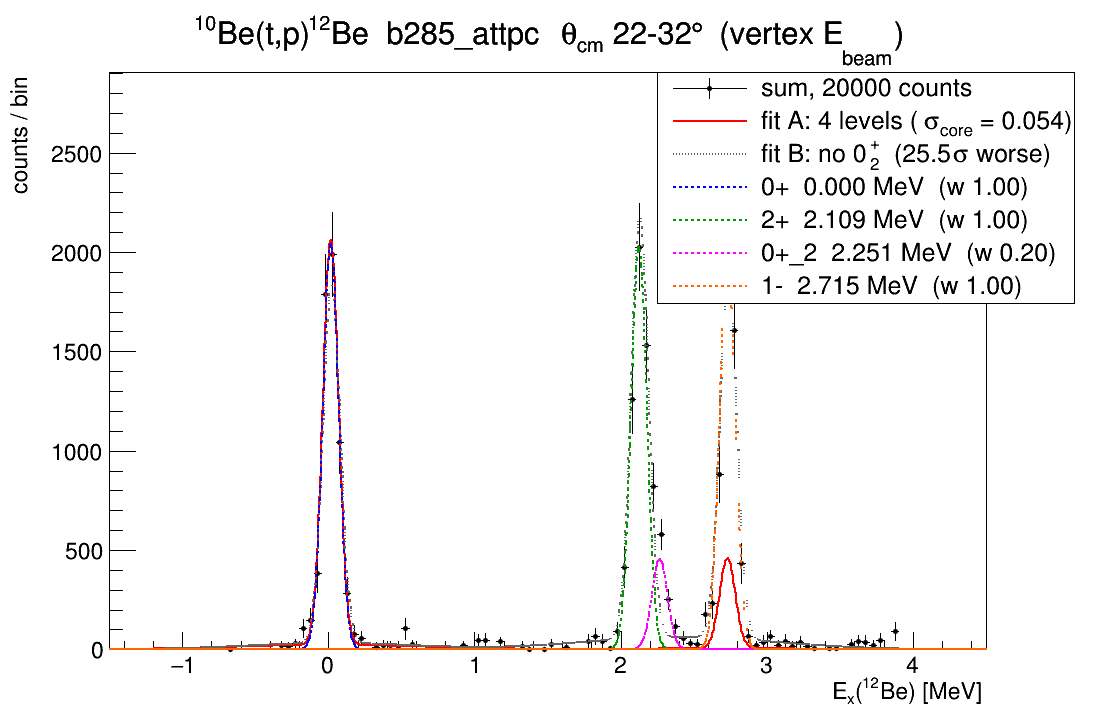
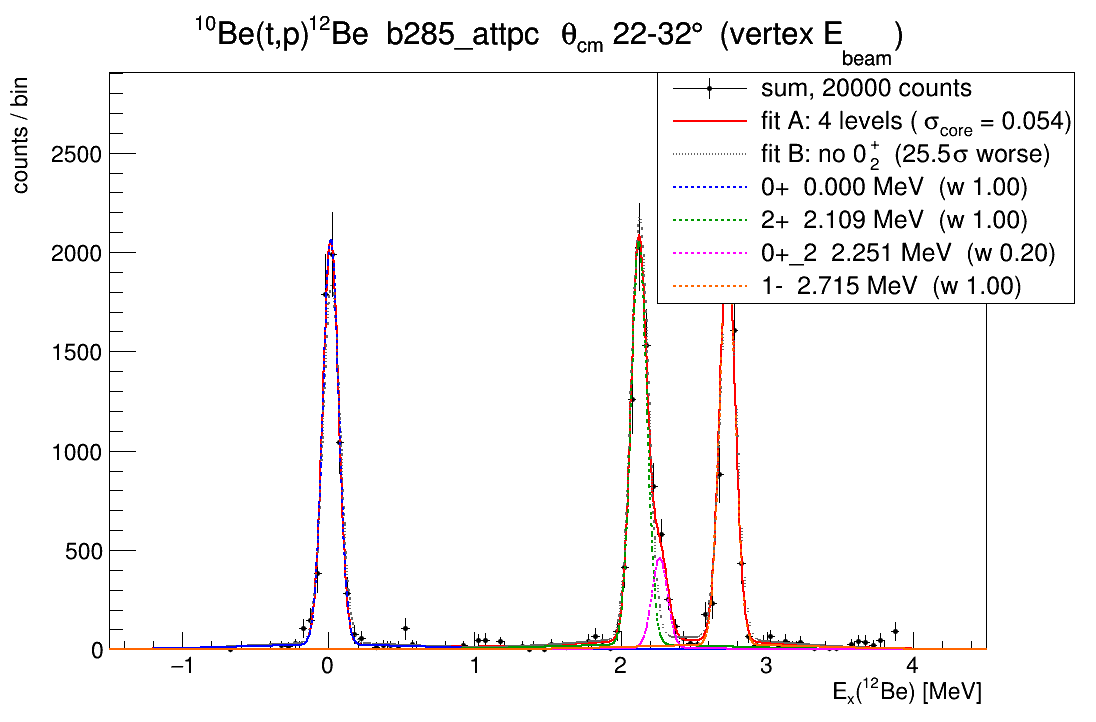
10Be(t,p): the drawn fit curve was not the fit
sp_model reads the peak configuration from globals (gNPk, gPkEx, gFreePk), so a TF1 built
for one fit evaluates with whatever configuration was set LAST. Fit C runs after fit A and
leaves three peaks with a free centroid, so every later evaluation of fA -- the red curve
on every plot -- was a different function. The fitted numbers were never wrong, because
they are captured at fit time; only the picture was.

What gave it away was the picture itself: the red total ran BELOW the orange 1- component
near 2.7 MeV, which a sum of non-negative terms cannot do. Worth remembering that the plot
caught a bug the printed table could not.

Each fit is now sampled into a TGraph with its own configuration restored first, and the
per-level dashed curves carry the full core+tail shape instead of the core alone, so they
sum to the red total instead of standing taller than it.

diff --git a/macro/Simulation/ATTPC/10Be_tp/tp_spectrum_Be10.C b/macro/Simulation/ATTPC/10Be_tp/tp_spectrum_Be10.C
@@ -248,7 +248,13 @@ void tp_spectrum_Be10(TString root = "/mnt/f/Be10_tp", TString cfg = "b285_attpc
    hSum->Scale(nTot / tot);
    for (int l = 0; l < NL; ++l) hLev[l]->Scale(nTot / tot);
 
-   auto runFit = [&](TH1D *h, bool with2251, const char *tag, int freePk = -1) {
+   // THE GLOBALS ARE THE TRAP. sp_model reads gNPk / gPkEx / gFreePk, so a TF1 built for one fit
+   // evaluates with WHATEVER configuration was set last. Fit C runs after fit A and leaves gNPk = 3
+   // with a free peak, so drawing fA afterwards drew a curve that was not fit A at all -- it showed
+   // the total falling BELOW one of its own components, which is what gave the bug away. The fitted
+   // numbers were never affected (they are captured at fit time), only anything evaluated later.
+   // setShape() restores a named configuration; call it before every evaluation of a stored TF1.
+   auto setShape = [&](bool with2251, int freePk) {
       gNPk = 0;
       int idx2109 = -1;
       for (int l = 0; l < NL; ++l) {
@@ -257,6 +263,9 @@ void tp_spectrum_Be10(TString root = "/mnt/f/Be10_tp", TString cfg = "b285_attpc
          gPkEx[gNPk++] = LEX[l];
       }
       gFreePk = (freePk >= 0) ? idx2109 : -1;
+   };
+   auto runFit = [&](TH1D *h, bool with2251, const char *tag, int freePk = -1) {
+      setShape(with2251, freePk);
       int npar = NSHAPE + gNPk + (gFreePk >= 0 ? 2 : 0);
       TF1 *f = new TF1(Form("f%s", tag), sp_model, exLo, exHi, npar);
       f->SetParName(0, "shift");
@@ -381,17 +390,38 @@ void tp_spectrum_Be10(TString root = "/mnt/f/Be10_tp", TString cfg = "b285_attpc
    double ymax = hObs->GetMaximum() * 1.35;
    hObs->GetYaxis()->SetRangeUser(0, ymax);
    hObs->Draw("E");
-   fA->SetLineColor(kRed);
-   fA->Draw("same");
-   B.first->SetLineColor(kGray + 2);
-   B.first->SetLineStyle(3);
-   B.first->Draw("same");
+   // Sample each fit into a TGraph WITH ITS OWN SHAPE RESTORED. Drawing the live TF1s would
+   // re-enter sp_model later, under whatever globals happen to be set at paint time.
+   auto sample = [&](TF1 *f, bool with2251, int freePk, int color, int style) {
+      setShape(with2251, freePk);
+      const int N = 1200;
+      auto *g = new TGraph(N);
+      for (int i = 0; i < N; ++i) {
+         double x = exLo + (exHi - exLo) * i / (N - 1.0);
+         g->SetPoint(i, x, f->EvalPar(&x, f->GetParameters()));
+      }
+      g->SetLineColor(color);
+      g->SetLineStyle(style);
+      g->SetLineWidth(2);
+      return g;
+   };
+   TGraph *gA = sample(fA, true, -1, kRed, 1);
+   TGraph *gB = sample(B.first, false, -1, kGray + 2, 3);
+   gA->Draw("L SAME");
+   gB->Draw("L SAME");
    int col[NL] = {kBlue, kGreen + 2, kMagenta, kOrange + 7};
    TF1 *comp[NL];
    for (int l = 0; l < NL; ++l) {
-      comp[l] = new TF1(Form("c%d", l), "gaus", exLo, exHi);
-      comp[l]->SetParameters(fA->GetParameter(NSHAPE + l) * (1 - fA->GetParameter(3)), LEX[l] + fA->GetParameter(0),
-                             sg); // the CORE of this level, which is what the eye should follow
+      // The FULL level -- core PLUS tail -- so the dashed curves really do sum to the red total.
+      // A plain "gaus" here would draw only the core, which is a different curve from the one the
+      // fit contains and would misread as the component being taller than the total.
+      comp[l] = new TF1(Form("c%d", l), "[0]*((1-[3])*exp(-0.5*((x-[1])/[2])^2)+[3]*([2]/[4])*exp(-0.5*((x-[1])/[4])^2))",
+                        exLo, exHi);
+      comp[l]->SetParameter(0, fA->GetParameter(NSHAPE + l));
+      comp[l]->SetParameter(1, LEX[l] + fA->GetParameter(0));
+      comp[l]->SetParameter(2, sg);
+      comp[l]->SetParameter(3, fA->GetParameter(3));
+      comp[l]->SetParameter(4, fA->GetParameter(2));
       comp[l]->SetLineColor(col[l]);
       comp[l]->SetLineStyle(2);
       comp[l]->SetNpx(1200);
@@ -399,8 +429,8 @@ void tp_spectrum_Be10(TString root = "/mnt/f/Be10_tp", TString cfg = "b285_attpc
    }
    TLegend *leg = new TLegend(0.60, 0.58, 0.98, 0.90);
    leg->AddEntry(hObs, Form("sum, %.0f counts", nTot), "lep");
-   leg->AddEntry(fA, Form("fit A: 4 levels (#sigma_{core} = %.3f)", sg), "l");
-   leg->AddEntry(B.first, Form("fit B: no 0^{+}_{2}  (%.1f#sigma worse)", nsig), "l");
+   leg->AddEntry(gA, Form("fit A: 4 levels (#sigma_{core} = %.3f)", sg), "l");
+   leg->AddEntry(gB, Form("fit B: no 0^{+}_{2}  (%.1f#sigma worse)", nsig), "l");
    for (int l = 0; l < NL; ++l) leg->AddEntry(comp[l], Form("%s  %.3f MeV  (w %.2f)", LJP[l], LEX[l], pop[l]), "l");
    leg->Draw();
    TString png = TString::Format("%s/spectrum_Be10tp_%s_cm%03.0f-%03.0f_%s.png", outDir.Data(), cfg.Data(), cmLo, cmHi,
